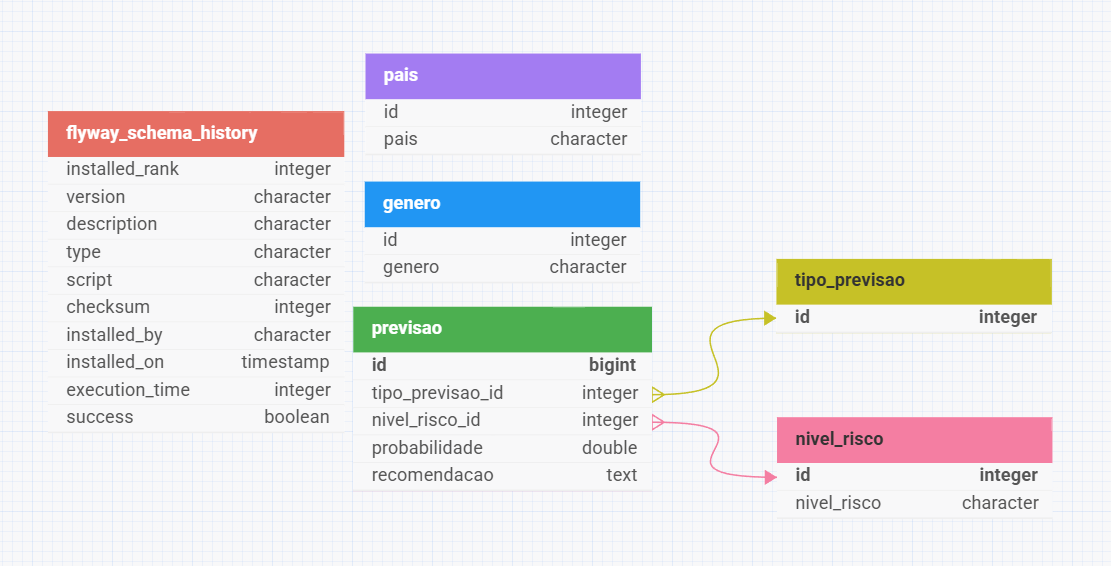
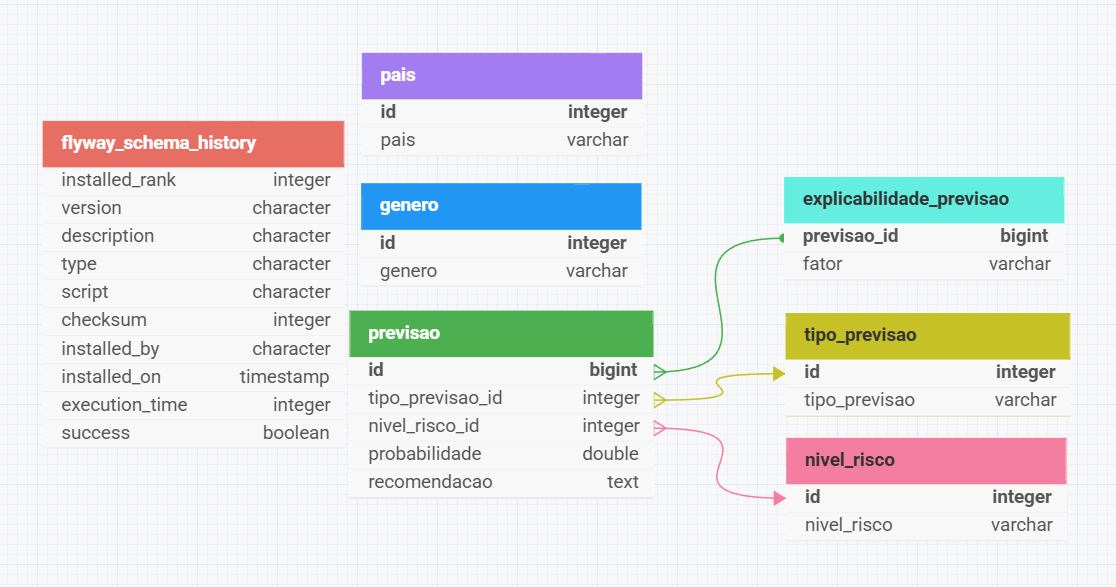
docs: atualiza documentação README.md

Changed region(s): [[0.0306, 0.1802, 0.6427, 0.871], [0.6427, 0.3004, 0.9793, 0.9011], [0.306, 0.0901, 0.5815, 0.2703]]

diff --git a/src/main/java/equipe25/churninsight_backend/model/explicabilidade/ExplicabilidadeEnum.java b/src/main/java/equipe25/churninsight_backend/model/explicabilidade/ExplicabilidadeEnum.java
@@ -8,12 +8,12 @@ public enum ExplicabilidadeEnum {
     TENURE("Tenure", "Tempo de Relacionamento"),
     ESTIMATED_SALARY("EstimatedSalary", "Salário Estimado"),
 
-    SPAIN("SPAIN", "Espanha"),
-    FRANCE("FRANCE", "França"),
-    GERMANY("GERMANY", "Alemanha"),
+    SPAIN("Spain", "Espanha"),
+    FRANCE("France", "França"),
+    GERMANY("Germany", "Alemanha"),
 
-    MALE("MALE", "Masculino"),
-    FEMALE("FEMALE", "Feminino");
+    MALE("Male", "Masculino"),
+    FEMALE("Female", "Feminino");
 
     private final String valorBancoDeDados;
     private final String displayName;

diff --git a/README.md b/README.md
@@ -21,7 +21,6 @@ Repositórios:
 👉 [**ChurnInsight — Data Science**](https://github.com/LeticiaPaesano/Churn_Hackathon_ONE-Data_Science)  
 👉 [**ChurnInsight — Frontend**](https://github.com/lucasns06/churninsight-frontend)
 
-
 ---
 
 <h2 align="center">📑 Sumário</h2>
@@ -106,15 +105,18 @@ Durante o hackathon, os serviços são executados localmente, mas a arquitetura 
 A abordagem adotada pelo squad de Data Science para o MVP inclui:
 
 - **Pré-processamento**
+
   - Remoção de colunas identificadoras
   - One-Hot Encoding para variáveis categóricas
 
 - **Engenharia de Features**
+
   - `Age_Tenure`
   - `Balance_Salary_Ratio`
   - `High_Value_Customer` (calculada a partir das medianas do conjunto de treino)
 
 - **Modelagem**
+
   - Random Forest Classifier (`n_estimators=200`)
   - Tratamento de desbalanceamento com `class_weight={0:1, 1:3}`
   - Threshold ajustado para maximizar o Recall da classe churn
@@ -133,6 +135,7 @@ O pipeline completo foi serializado com `joblib` e exposto via API FastAPI.
 <h2 id="tecnologias" align="center">Tecnologias Utilizadas</h2>
 
 ### Backend
+
 - ☕ Java 17+
 - 🌱 Spring Boot 3
 - 🌐 Spring Web
@@ -143,6 +146,7 @@ O pipeline completo foi serializado com `joblib` e exposto via API FastAPI.
 - 🐘 PostgreSQL
 
 ### Data Science
+
 - 🐍 Python 3
 - 📊 Pandas, NumPy, Matplotlib, Seaborn
 - 🤖 Scikit-learn
@@ -157,6 +161,7 @@ O pipeline completo foi serializado com `joblib` e exposto via API FastAPI.
 <h2 id="contrato" align="center">Contrato de Comunicação</h2>
 
 📥 **Entrada**
+
 ```json
 {
   "CreditScore": 650,
@@ -170,14 +175,17 @@ O pipeline completo foi serializado com `joblib` e exposto via API FastAPI.
 ```
 
 📤 **Saída**
+
 ```json
 {
   "previsao": "Vai continuar",
   "probabilidade": 0.24,
   "nivel_risco": "BAIXO",
-  "recomendacao": "Cliente estável - manutenção padrão"
+  "recomendacao": "Cliente estável - manutenção padrão",
+  "explicabilidade": ["Age", "Balance", "Germany"]
 }
 ```
+
 O contrato pode evoluir conforme ajustes no modelo e nas regras de negócio.
 
 <p align="right"><a href="#inicio">⬆ Voltar ao início</a></p>
@@ -205,7 +213,7 @@ docs/
  ├── boas-praticas-backend.md           # Guia completo de boas práticas em projetos Java/Spring Boot
  ├── DEPLOY_AND_CICD.md                 # Detalhes do Pipelina de CI/CD aplicado no projeto
  ├── documentacao-nocountry.md          # Documentação atualizada semanalmente na plataforma NoCountry
- ├── documentacao-swagger.md            # Documentação visual da API com GIFs demonstrativos      
+ ├── documentacao-swagger.md            # Documentação visual da API com GIFs demonstrativos
  ├── er-diagrama.md                     # Documentação sobre o diagrama ER do banco de dados PostgreSQL
  └── estrutura-projeto.md               # Estrutura detalhada do projeto e organização dos pacotes
 
@@ -220,18 +228,19 @@ src/main/java/
 src/main/resources/
  ├── db/                                # Scripts Flyway (migrations e seeds)
  ├── application-*.properties           # Configurações específicas (prod, dev)
- └── application.properties             # Configuração padrão      
+ └── application.properties             # Configuração padrão
 
 src/test/java/
  └── equipe25/churninsight_backend/
       ├── service/                      # Testes unitários dos services, com alta cobertura por método
       ├── utils/                        # Fábrica de entidades e mocks reutilizáveis para testes
-      └── ChurninsightBackendApplicationTests.java 
+      └── ChurninsightBackendApplicationTests.java
 
  src/test/resources/
  ├── application-test.properties        # Configuração do ambiente de testes
  └── payload/                           # Dados auxiliares (JSON / JSONL) usados em testes e validações manuais
 ```
+
 > 🔗 [Veja a estrutura completa do projeto aqui](./docs/estrutura-projeto.md)
 
 ### Data Science
@@ -256,21 +265,25 @@ api/
 pip install -r api/requirements.txt
 uvicorn api.main:app --reload
 ```
+
 A documentação interativa estará disponível em:
 
 ```bash
 http://localhost:8000/docs
 ```
+
 ### Backend
 
 ```bash
 ./mvnw spring-boot:run
 ```
+
 Endpoint principal:
 
 ```bash
 POST http://localhost:8080/previsao
 ```
+
 ⚠ A API de Data Science deve estar em execução para previsões reais.
 
 <p align="right"><a href="#inicio">⬆ Voltar ao início</a></p>
@@ -287,7 +300,6 @@ incluindo migrações de banco via Flyway e execução de testes automatizados.
 <p align="right"><a href="#inicio">⬆ Voltar ao início</a></p>
 
 ---
-
 
 <h2 id="entregaveis" align="center">Primeiros Entregáveis</h2>
 

diff --git a/docs/estrutura-projeto.md b/docs/estrutura-projeto.md
@@ -31,6 +31,8 @@ src/main
  │    │    │    │    ├── HealthController.java
  │    │    │    │    └── PrevisaoController.java
  │    │    │    ├── dto
+ │    │    │    │    ├── FatorCountAnalytics.java
+ │    │    │    │    ├── FatorCountResponse.java
  │    │    │    │    ├── PrevisaoListagem.java
  │    │    │    │    └── PrevisaoPorNivelRisco.java
  │    │    │    ├── repository
@@ -52,8 +54,11 @@ src/main
  │    │    ├── documentation
  │    │    │    └── SpringDocConfiguracoes.java
  │    │    └── security
+ │    │    │    ├── CorsConfig.java
  │    │         └── WebConfig.java
  │    ├── model
+ │    │    ├── explicabilidade
+ │    │    │    └── ExplicabilidadeEnum.java
  │    │    ├── genero
  │    │    │    ├── enums
  │    │    |    │    └── GeneroEnum.java
@@ -65,18 +70,19 @@ src/main
  │    │    ├── pais
  │    │    │    ├── enums
  │    │    |    │    └── PaisEnum.java
- │    │    │    └── PaisEntidade.java 
+ │    │    │    └── PaisEntidade.java
  │    │    ├── previsao
- │    │    │    └── Previsao.java 
+ │    │    │    └── Previsao.java
  │    │    └── tipoprevisao
  │    │         ├── enums
  │    │         │    └── TipoPrevisaoEnum.java
- │    │         └── TipoPrevisaoEntidade.java 
+ │    │         └── TipoPrevisaoEntidade.java
  │    └── ChurninsightBackendApplication.java
  ├── resources
  │    ├── db
  │    │    ├── V1__create_tables.sql
- │    │    └── V2__insert_data.sql
+ │    │    ├── V2__insert_data.sql
+ │    │    └── V3__create_table_explicabilidade_previsao.sql
  │    ├── application-dev.properties
  │    ├── application-prod.properties
  │    └── application.properties
@@ -90,8 +96,8 @@ src/main
  │    ├── payload
  │    └── application-test.properties
  └── README.md
- ```
+```
 
- > Estrutura atualizada em: Dezembro/2025
+> Estrutura atualizada em: Dezembro/2025
 
  <p align="right"><a href="../README.md">🔄 Voltar para a documentação completa</a></p>
